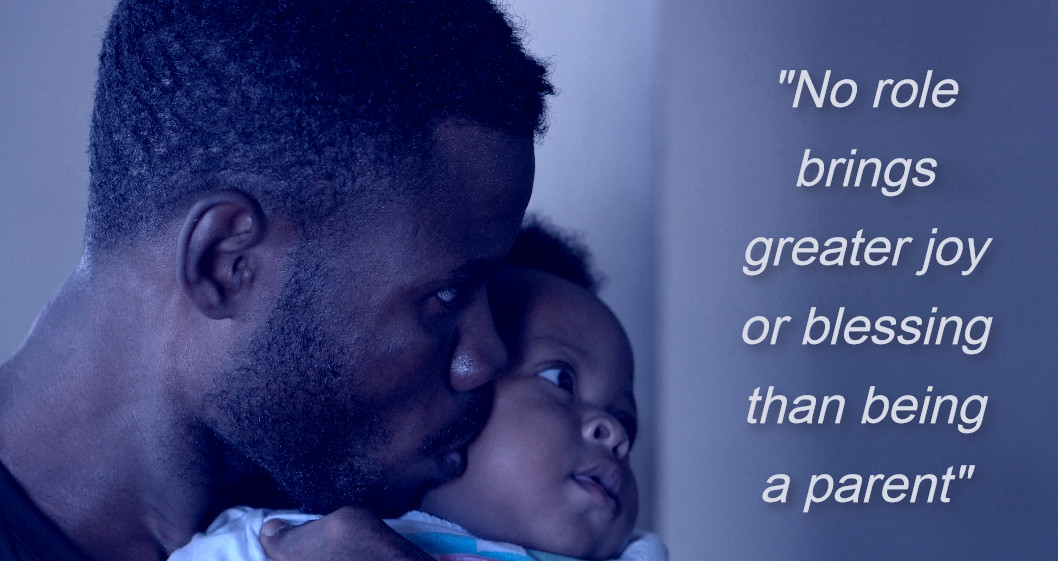
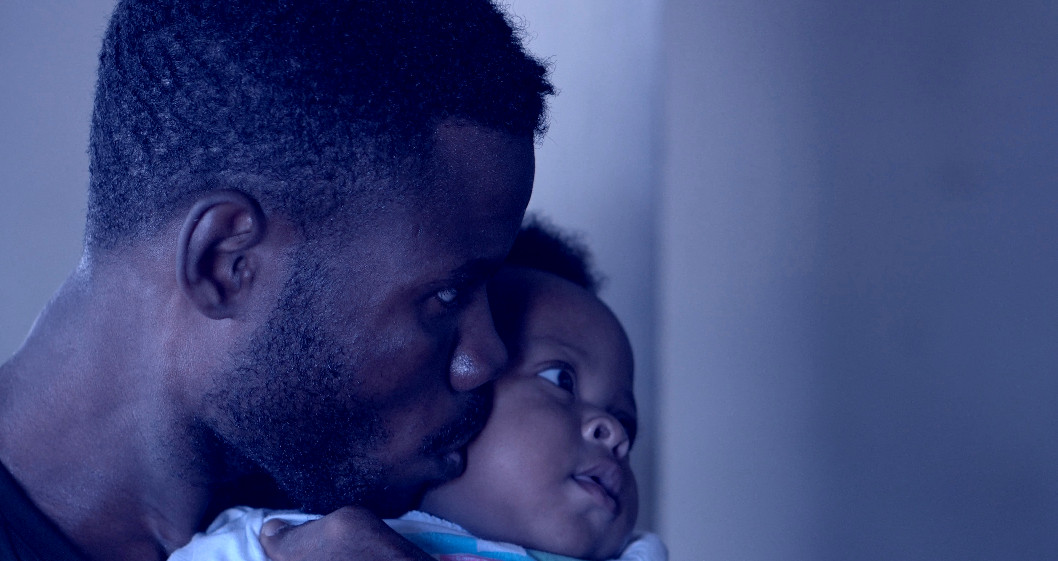
added page slice

diff --git a/style.css b/style.css
@@ -34,10 +34,10 @@ body {
 }
 
 #footerLogo {
-    height: 100%;
-    width: auto;
     position: absolute;
+    width: 13%;
     left: 10%;
+    opacity: .5;
 }
 /* SVG Logo */
 #PWP {
@@ -55,6 +55,29 @@ header {
     position: relative;
     text-align: center;
     color: white;
+}
+
+#pageSplit {
+    position: relative;
+    margin: 50px 0px;
+    height: 450px;
+    background-image: url("./pics/Father.jpg");
+    background-repeat: no-repeat;
+    background-position: center;
+    background-position-y: 95%;
+    background-size: cover;
+}
+
+#pageSplit > p {
+    text-align: center;
+    font-size: 2.5vw;
+    color: white;
+    text-shadow: 1px 1px 8px rgba(56, 13, 13, 0.4);
+    position: absolute;
+    right: 5%;
+    width: 28%;
+    top: 50%;
+    margin-top: -10%;
 }
 
 header > h1, #footerTitle > h1 {
@@ -152,7 +175,7 @@ a.navButton {
 #indexBodyContainer > h1 {
     text-shadow: 1px 1px 8px rgba(255,255,255,0.5);
     margin-top: 0px;
-    padding-top: 20px;
+    padding-bottom: 20px;
     color: #2f477d;
     text-align: center;
 }
@@ -182,14 +205,14 @@ a.navButton {
     text-shadow: 1px 1px 3px gray;
 }
 
-.mainBody {
+#mainBody {
     background: linear-gradient(180deg, #8abcdd 7%, rgba(255,255,255,1) 63%); 
     z-index: 10;
     width: 100%;
     min-height: 600px;
 }
 
-.mainBody > * {
+#indexBodyContainer > h1, #indexBodyContainer > div#about, #indexBodyContainer > div#infoFlex {
     width: 90%;
     margin: auto;
 }

diff --git a/HTML/index.html b/HTML/index.html
@@ -96,9 +96,7 @@
         </nav>
       </div>
     </header>
-
     <main id="mainBody">
-      <div class="mainBody">
         <div id="indexBodyContainer">
           <h1>An Organization for Single Parents</h1>
           <div id="about">
@@ -117,6 +115,9 @@
                 to join a chapter or to start one in your local area.
               </p>
             </div>
+          </div>
+          <div id="pageSplit">
+            <p><i>"No role brings greater joy or blessing than being a parent"</i></p>
           </div>
           <h1>Building a better future for our children</h1>
           <div id="infoFlex">
@@ -147,7 +148,6 @@
             </div>
           </div>
         </div>
-      </div>
       <!-- <div id="carousel">
         <div id="carouselShow1" class="carouselView"></div>
         <div id="carouselShow2" class="carouselView"></div>
